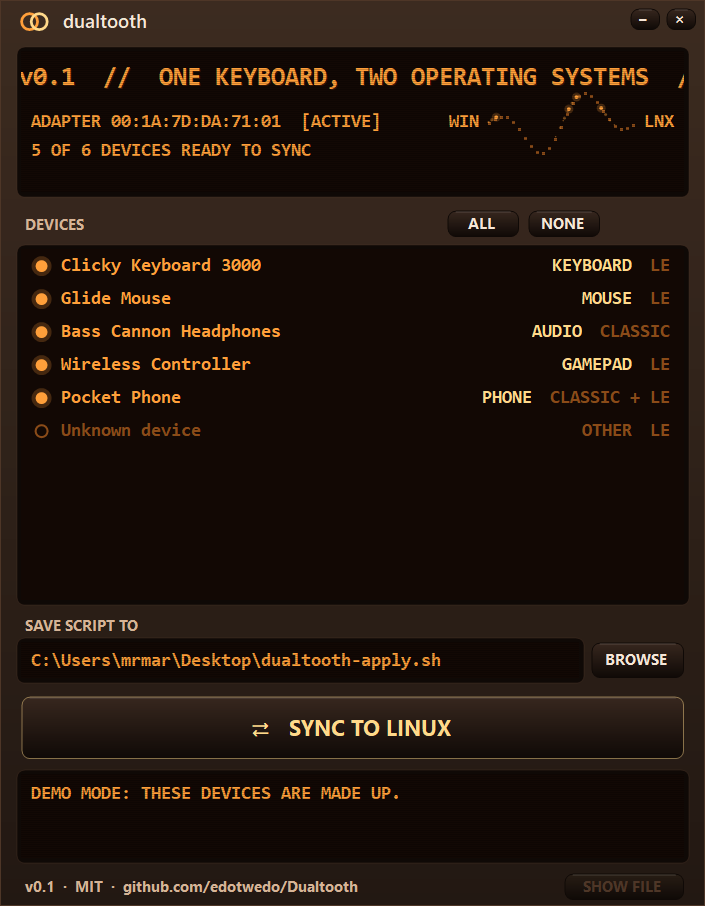
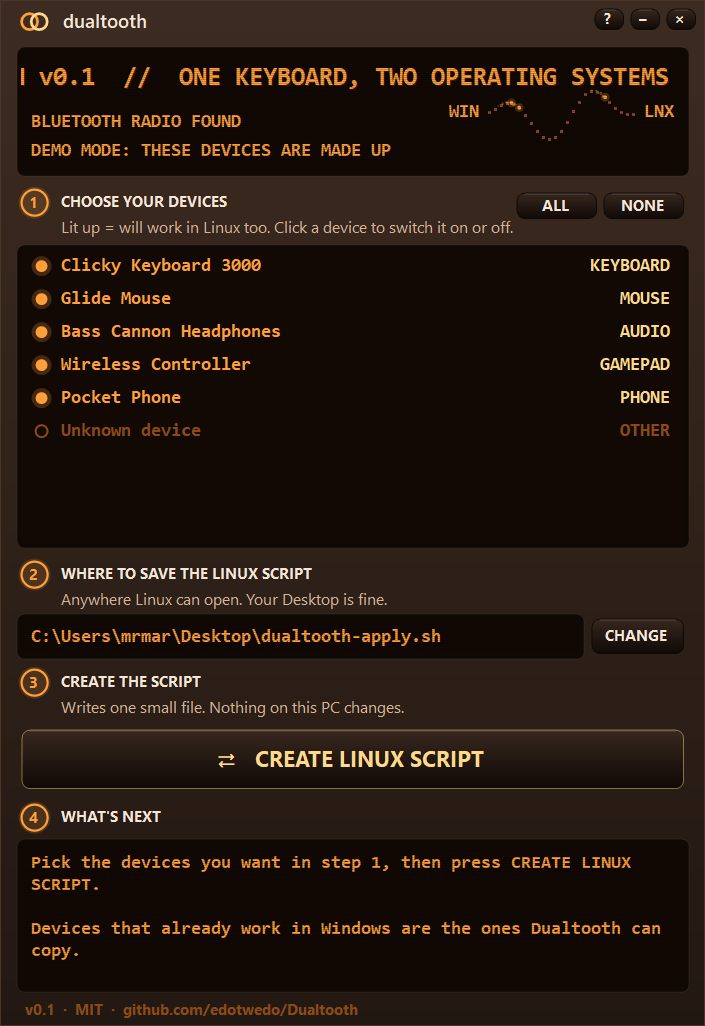
README: new screenshot and button name

diff --git a/README.md b/README.md
@@ -17,7 +17,8 @@ the other one doesn't. Dualtooth copies Windows' keys into Linux so both use the
 
 1. **Make sure your devices work in Windows.** If one doesn't, pair it in Windows now.
 2. Run **Dualtooth.exe** and click **Yes** on the admin prompt.
-3. Click the devices you want so their lights come on, then hit **SYNC TO LINUX**.
+3. Click the devices you want so their lights come on, then press **CREATE LINUX SCRIPT**.
+   The app walks you through each step and shows exactly what to do next.
 4. Boot Linux, open a terminal in the folder with the script (Linux can read your Windows drive), and run:
    ```
    sudo bash dualtooth-apply.sh
